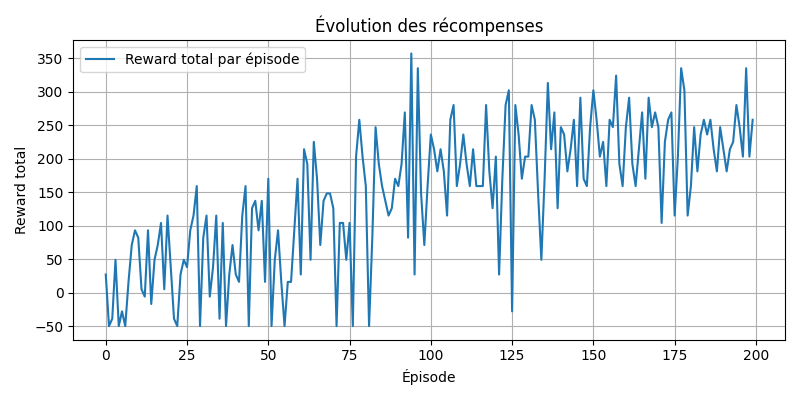
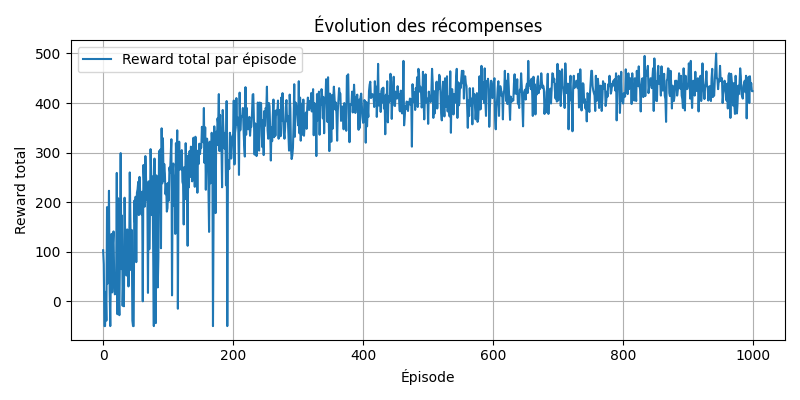
faire des test

diff --git a/main.py b/main.py
@@ -45,9 +45,11 @@ def faire_action(chambre, action):
     
     # Récompense
     if 20 <= chambre['temp'] <= 22:
-        reward = 10  # BIEN ! Dans la zone confort
+      reward = 10
+    elif 19 <= chambre['temp'] <= 23:  # Zone tampon
+      reward = 5
     else:
-        reward = -1  # MAL ! Hors zone
+      reward = -1
     
     # Avancer le temps
     chambre['step'] += 1
@@ -212,7 +214,7 @@ if __name__ == "__main__":
     print("="*50 + "\n")
     
     # 1. ENTRAÎNER
-    q_table = entrainer(episodes=200)
+    q_table = entrainer(episodes=1000)
     
     # 2. TESTER
     tester(q_table)
